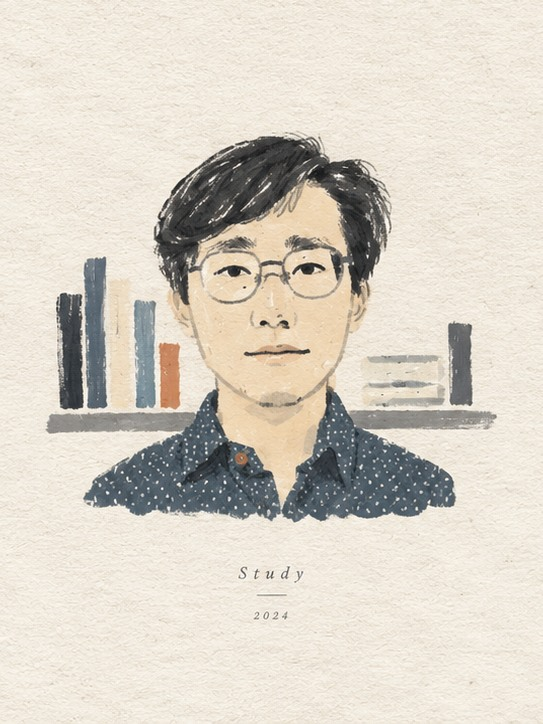
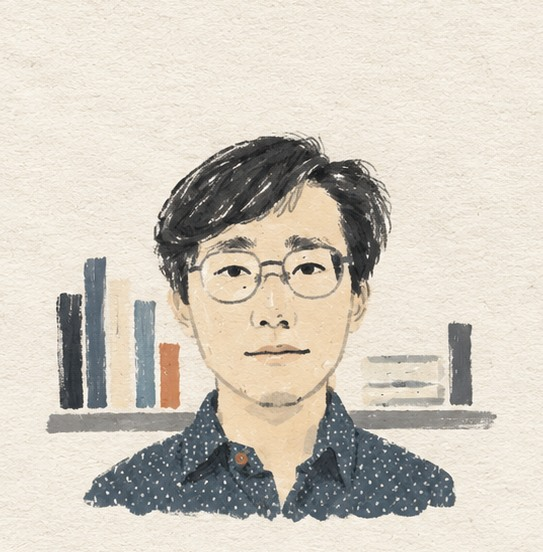
形象照題字改為 Valar Morghulis
- 插畫裁掉原烤字（Study/2024），題字改以 HTML figcaption 呈現
  （襯線斜體、0.42em 字距、細底線，仿原海報樣式），日後可隨改
- 圖檔縮為 543x552（87KB）

diff --git a/index.html b/index.html
@@ -42,7 +42,7 @@
           <nav class="capability-nav" aria-label="依能力瀏覽"><a href="#trading"><strong>投資交易</strong><span>策略邏輯與回測</span></a><a href="#index"><strong>程式專案</strong><span>金融工具與介面</span></a><a href="#leadership"><strong>組織領導</strong><span>社團創辦與經營</span></a></nav>
           <div class="hero-actions"><a class="button button-solid" href="#taishin">先看台新實習成果</a><a class="text-action" href="https://github.com/hades60414-sys" target="_blank" rel="me noopener noreferrer">GitHub ↗</a></div>
         </div>
-        <figure class="hero-portrait"><div class="portrait-frame"><img src="assets/portrait-zhang-da-heng.jpg" alt="Mike 張大恒的手繪紙本插畫形象照：書架前戴眼鏡的人像" width="545" height="727" /></div></figure>
+        <figure class="hero-portrait"><div class="portrait-frame"><img src="assets/portrait-zhang-da-heng.jpg" alt="Mike 張大恒的手繪紙本插畫形象照：書架前戴眼鏡的人像" width="543" height="552" /></div><figcaption class="portrait-caption"><span>Valar Morghulis</span></figcaption></figure>
       </section>
 
       <section class="work-section internship-section" id="taishin" aria-labelledby="taishin-title">

diff --git a/styles.css b/styles.css
@@ -329,9 +329,26 @@ section[id] {
 }
 
 .portrait-frame img {
+  display: block;
   width: 100%;
-  aspect-ratio: 3 / 4;
-  object-fit: cover;
+  height: auto;
+}
+
+/* 仿原海報字樣：細襯線斜體、寬字距、下方細線 */
+.portrait-caption {
+  margin-top: 18px;
+  color: #8a8177;
+  font-family: var(--font-serif);
+  font-size: 13px;
+  font-style: italic;
+  letter-spacing: 0.42em;
+  text-align: center;
+}
+
+.portrait-caption span {
+  display: inline-block;
+  padding-bottom: 10px;
+  border-bottom: 1px solid #c9c1b4;
 }
 
 .running-line {
